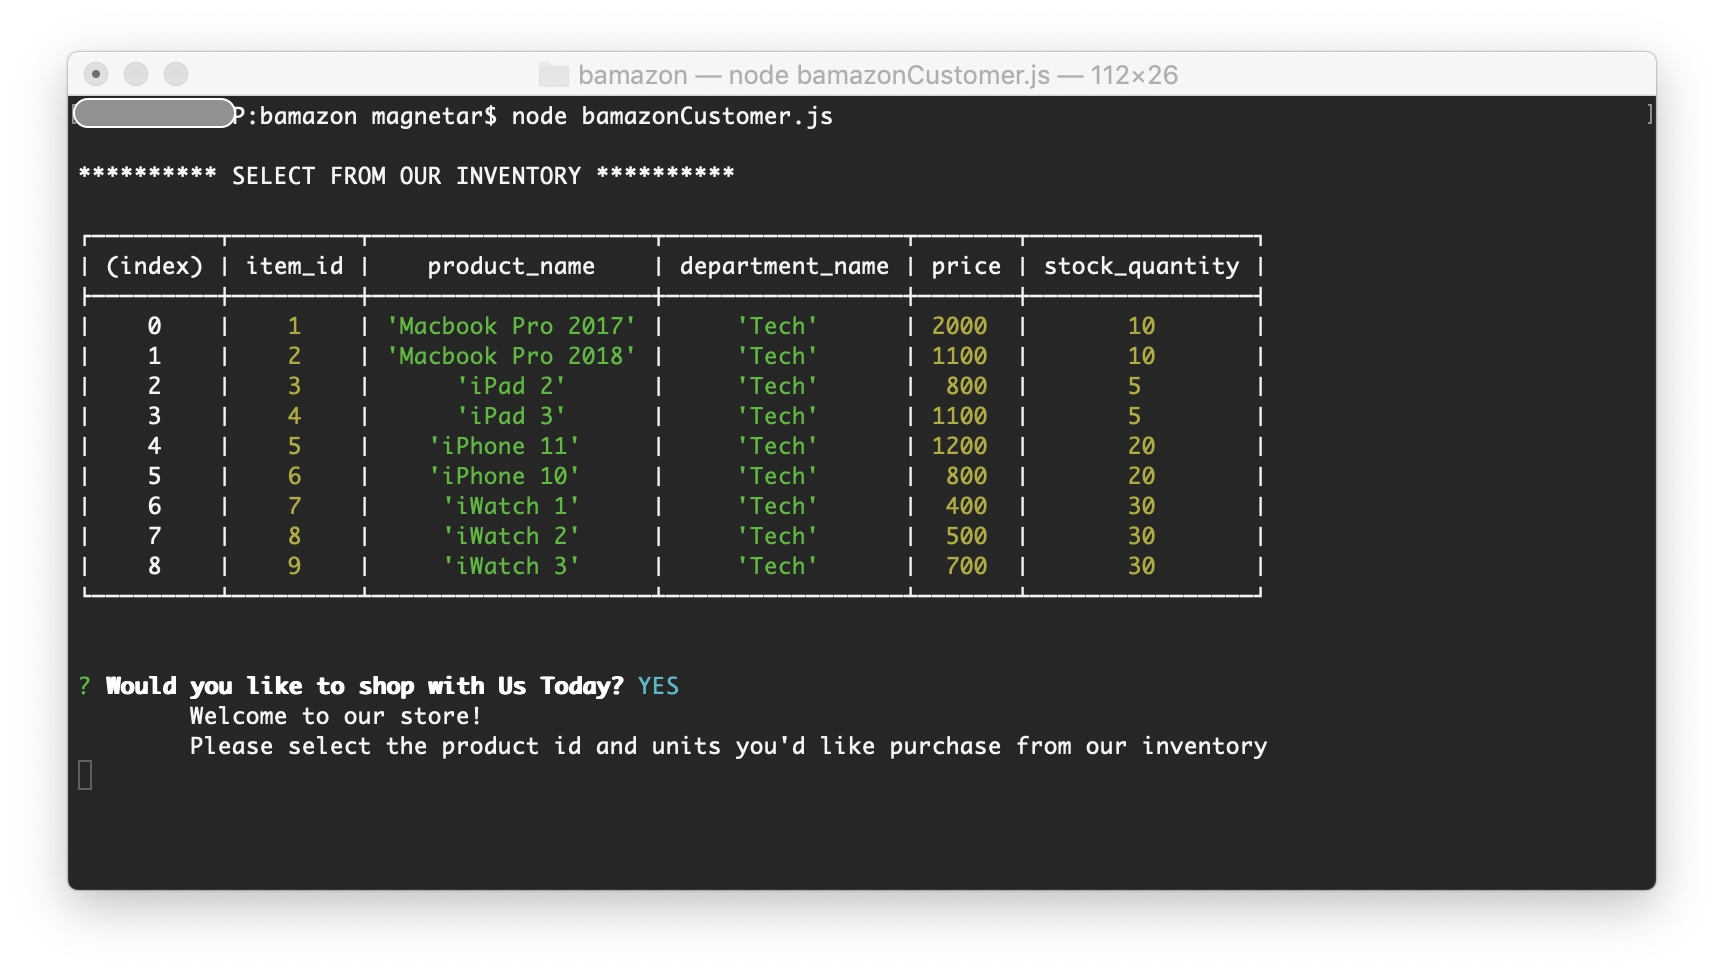
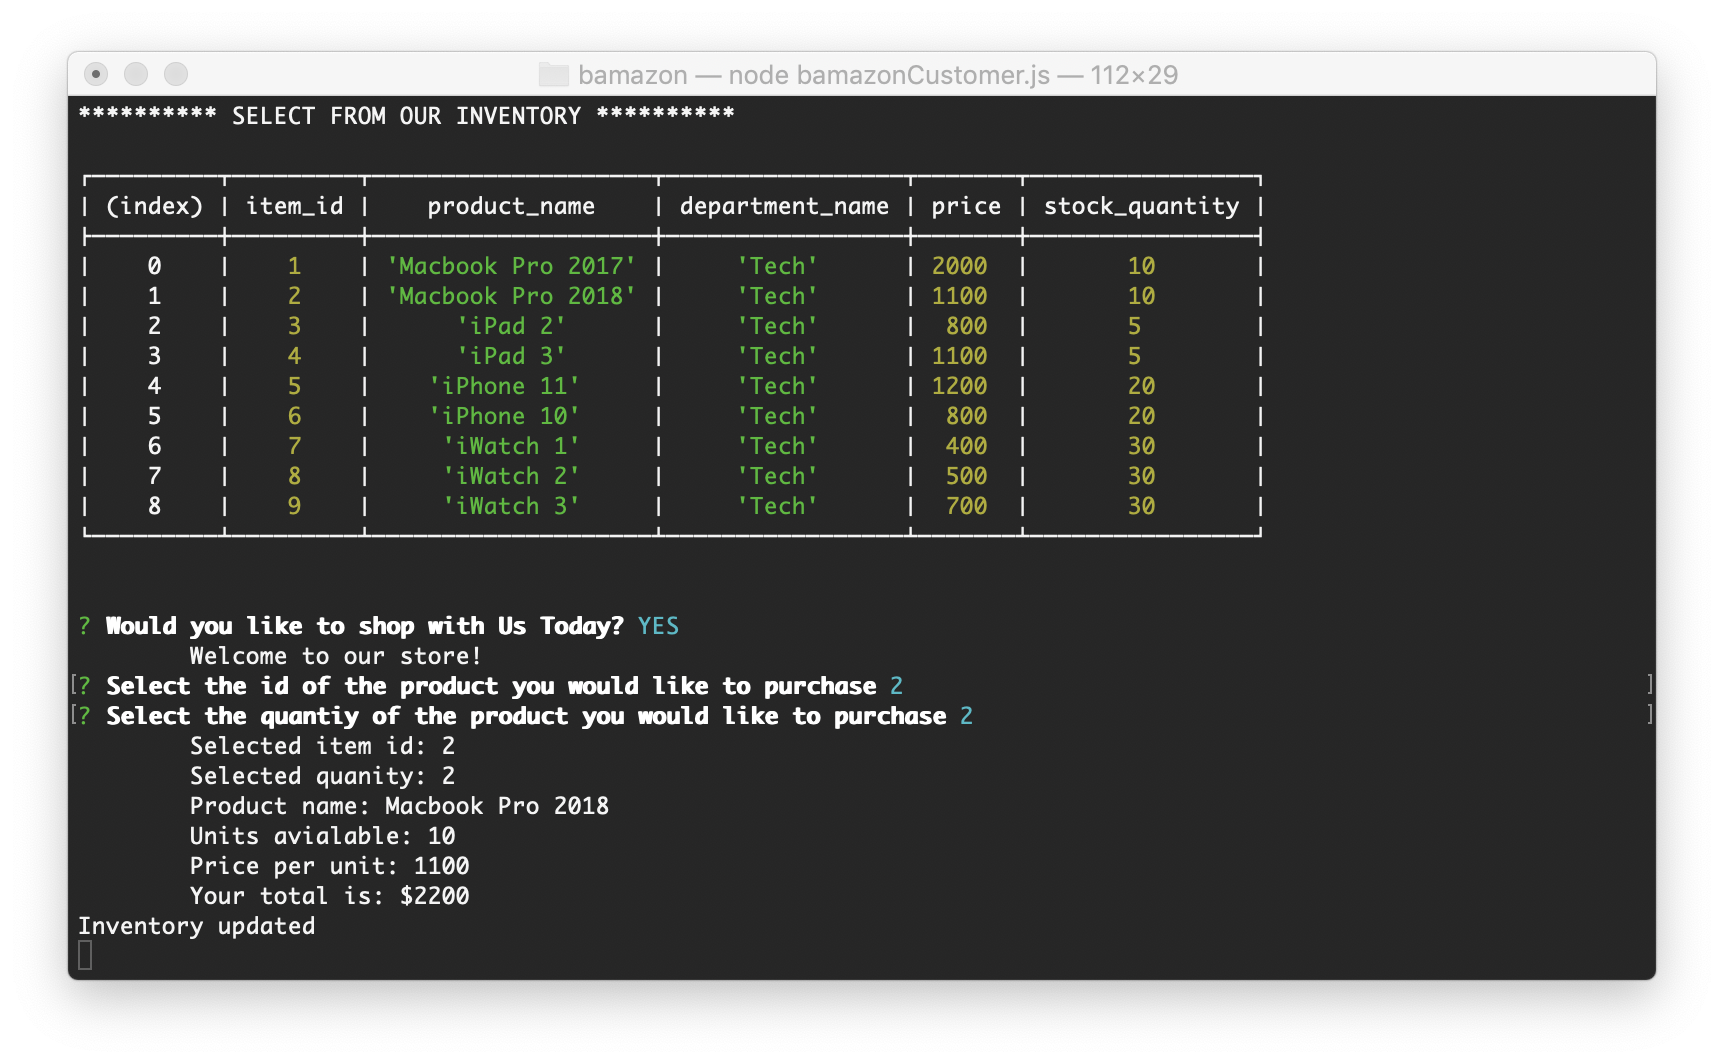
Readme updated and purchase Function in process

Changed region(s): [[0.0307, 0.0616, 0.953, 0.924]]

diff --git a/bamazonCustomer.js b/bamazonCustomer.js
@@ -11,17 +11,6 @@ const connection = mysql.createConnection({
   database: process.env.DB_NAME
 });
 
-const checkInventory = (id, quantity) => {
-  connection.query("SELECT * FROM products", (err, res) => {
-    if (err) throw err;
-    console.log(`\tYour Produc ID ${id}`);
-    console.log(`\tYour Procut Quantity ${quantity}`); 
-    if (id <= 0) {
-      console.log("Invalid Id. Select a valid id");
-      return shop();
-    }
-  });
-}
 
 // This function displays products from the database and promt customer to shop with us
 const displayInventory = () => {
@@ -57,6 +46,40 @@ const displayInventory = () => {
   });
 };
 
+const checkInventory = (id, quantity) => {
+  connection.query("SELECT * FROM products", (err, res) => {
+    if (err) throw err;
+    // console.log(`\tYour Produc ID ${id}`);
+    // console.log(`\tYour Procut Quantity ${quantity}`);
+    // // validate user's inputs  
+    // if (id <= 0) {
+    //   console.log("\tInvalid Id. Select a valid id");
+    //   return shop();
+    // } if (id = "NaN") {
+    //   console.log(`\tInvalid input. ID cannot be left empty`);
+    //   return shop();
+    // }
+
+    for (let i = 0; i < res.length; i++) {
+      let productID = res[i].item_id;
+      let productQunatity = res[i].stock_quantity;
+      let producName = res[i].product_name;
+      let productPrice = res[i].price;
+      let total = quantity * productPrice;
+      if (id == productID ) {
+        console.log(`\tSelected item id: ${id}`);
+        console.log(`\tSelected quanity: ${quantity}`);
+
+        console.log(`\tProduct name: ${producName}`);
+        console.log(`\tUnits avialable: ${productQunatity}`)
+        console.log(`\tPrice per unit: ${productPrice}`);
+        console.log(`\tYour total is: $${total} `)
+      }
+    }
+    updateInventory(id, quantity);
+  });
+}
+
 // This function takes order from the customer
 const shop = () => {
   inquirer
@@ -79,9 +102,12 @@ const shop = () => {
       var selectedItemID = parseInt(answers.id);
       var selectedQuantity = parseInt(answers.quantity);
       checkInventory(selectedItemID, selectedQuantity);
-
     });
 };
+
+const updateInventory = (updateID, updateQuantity) => {
+  console.log(`Inventory updated`);
+}
 
 // RUN APP HERE
 displayInventory();
